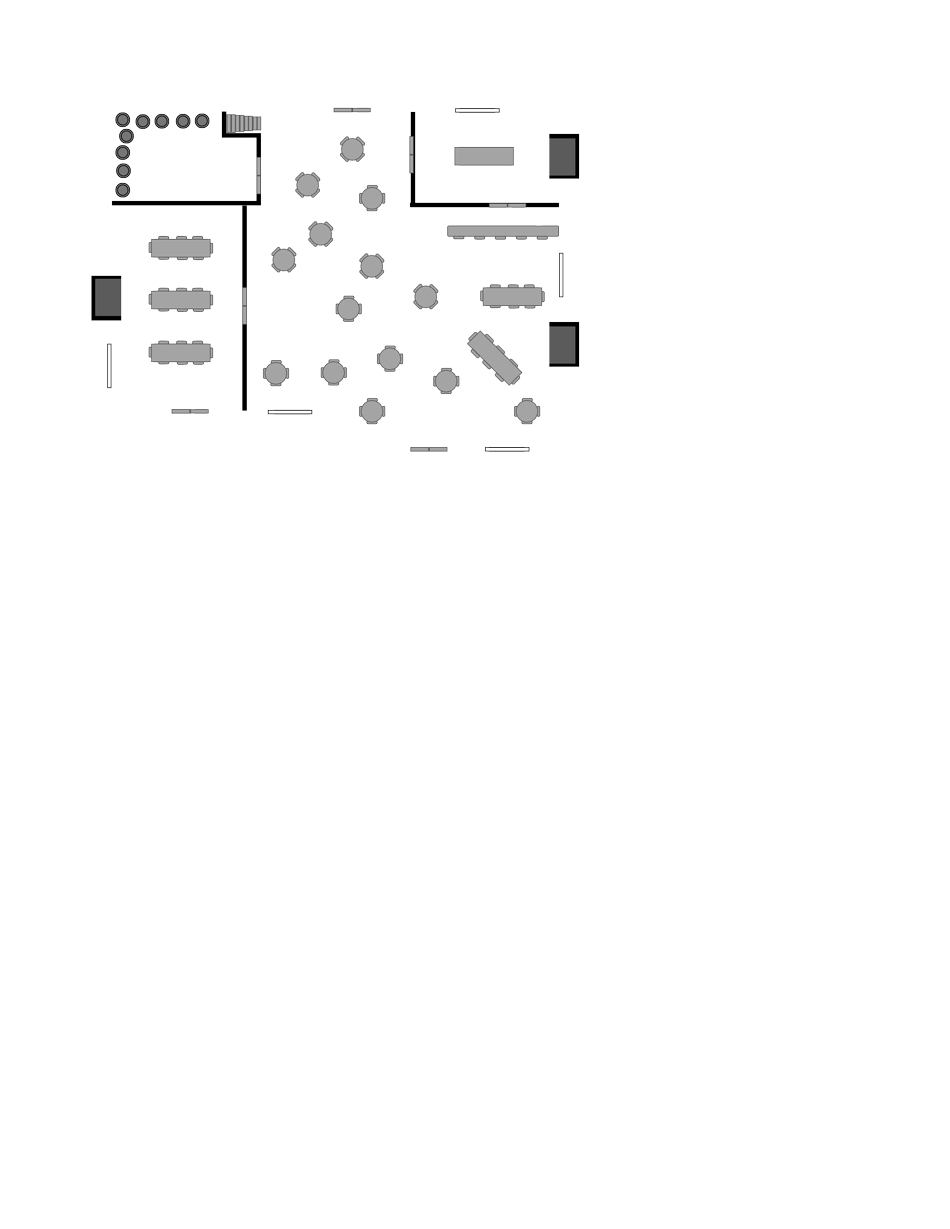
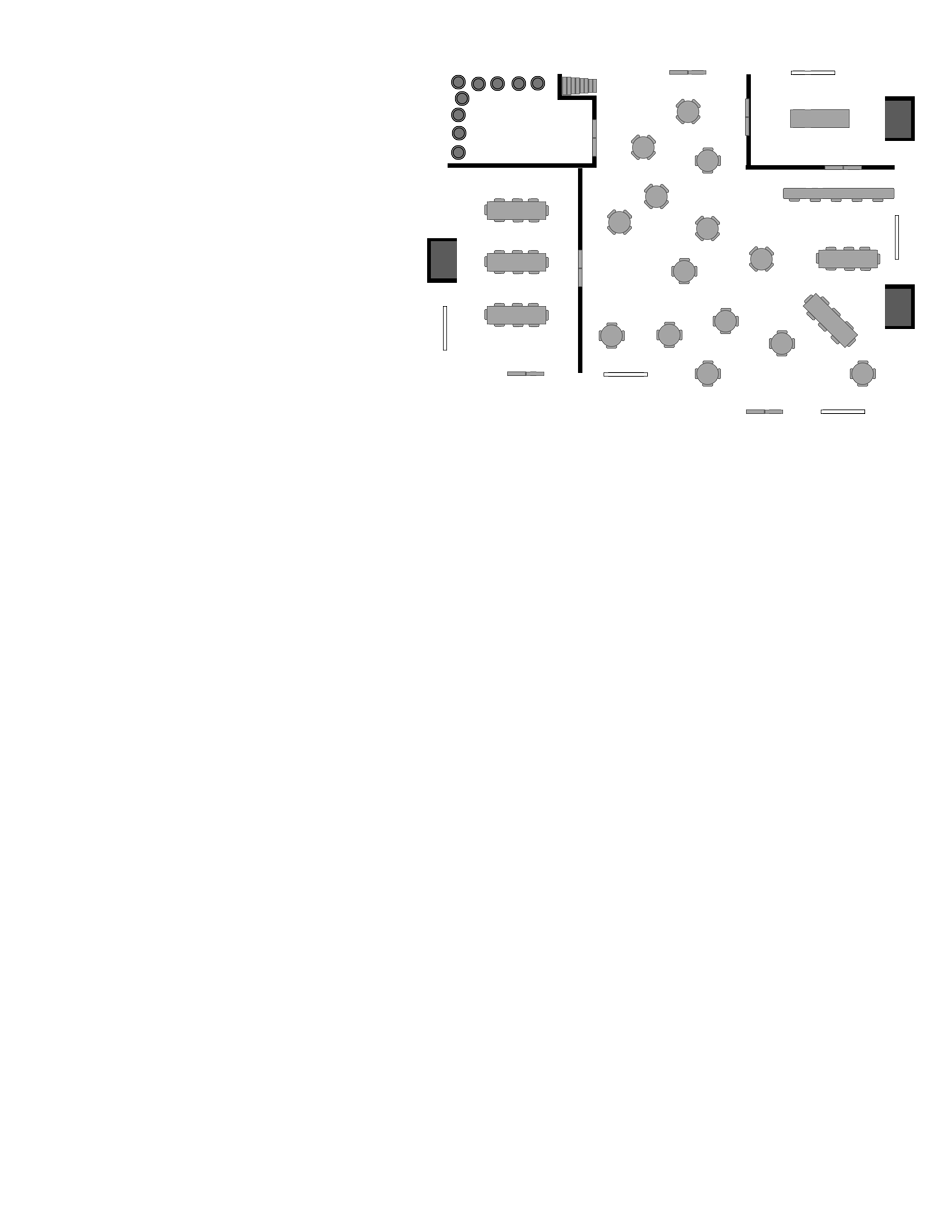
Update 1.02

diff --git a/tavernGen/css/tavern.css b/tavernGen/css/tavern.css
@@ -1,6 +1,10 @@
-#character_sheet{
-    width: 950px;
-    height: auto;
-	display: block;
+#tavernBackground{
+    top: 0px;
+    left: 0px;
 }
 
+#tavernTop{
+    position: absolute;
+    top: 8px;
+    left: 8px;
+}

diff --git a/tavernGen/tavern.php b/tavernGen/tavern.php
@@ -18,21 +18,30 @@
 <body>
 <?php
 
+include 'php/tavernName.php';
+include 'php/tavernImage.php';
 
+$background = 0;
+$tavernImageFront = getTavernTop($background);
 
 
 
 ?>
 
-<img id="character_sheet"/>
+<img src= "images/tavern1.png" id="tavernBackground">
+
+<img src='<?php echo $tavernImageFront ?>' id="tavernTop">
+
+<!--
+<img id="tavernBackground"/>
 
 <script>
     
     let imgData = "images/tavern1.png";
       
-      $("#character_sheet").attr("src", imgData);
+      $("#tavernBackground").attr("src", imgData);
 
-</script>
+</script>-->
 
 </body>
 </html>

diff --git a/tavernGen/php/tavernImage.php b/tavernGen/php/tavernImage.php
@@ -1,0 +1,27 @@
+<?php
+
+function getTavernTop($background)
+{
+    if($background == 0)
+    {
+        $number = rand(0,1);
+
+        switch($number)
+        {
+            case 0:
+                return 'images/config/tavern1a.png';
+            break;
+
+            case 1:
+                return 'images/config/tavern1b.png';
+            break;
+
+            default:
+            return ' ';
+        }
+    }
+
+}
+
+
+?>

diff --git a/tavernGen/php/tavernName.php b/tavernGen/php/tavernName.php
@@ -1,0 +1,4 @@
+<?php
+
+
+?>
